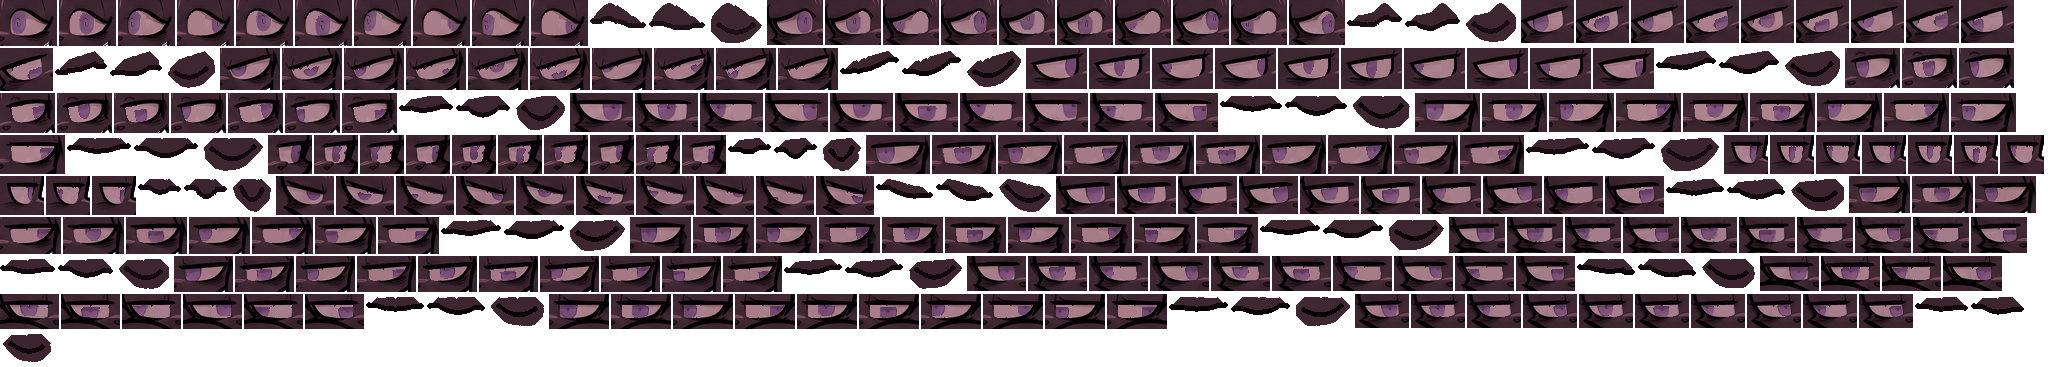
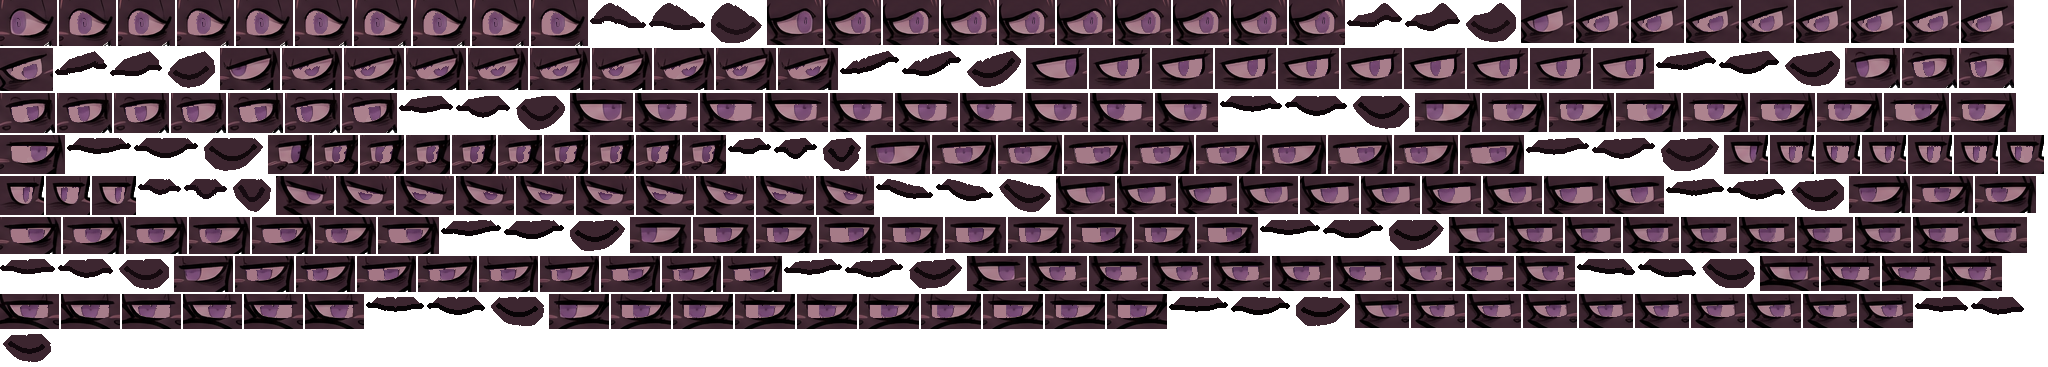
Olhos: íris leva o próprio contorno (sem anel fantasma), curso curto, íris cortada pela pálpebra só mexe pros lados
Claude-Session: https://claude.ai/code/session_01RXb6fzEZ7aw1dyGzSSnjXK

diff --git a/tools/olhos_retratos.py b/tools/olhos_retratos.py
@@ -103,19 +103,31 @@ def remendos(nome, chave, an):
         base = im[y0:y1, x0:x1].copy()
         abc = ab[y0:y1, x0:x1]
         irc = ir[y0:y1, x0:x1]
+        # íris inteira = íris + o contorno escuro em volta dela (o que não é esclera, perto da íris, dentro do olho).
+        # Sem o contorno, ao mexer a íris sobrava um anel fantasma no lugar antigo.
+        cbase = base[..., :3].astype(int)
+        escl_px = np.abs(cbase - o["cor_escl"][None, None, :]).sum(-1) < 70
+        perto = ndimage.binary_dilation(irc, iterations=5) & abc
+        irc = ndimage.binary_fill_holes(irc | (perto & ~escl_px)) & abc
         # olho sem íris (esclera no lugar): apaga com 2 px de folga pra não sobrar fiozinho da borda suavizada
         sem = base.copy()
         apagar = ndimage.binary_dilation(irc, iterations=2) & abc
         sem[apagar, :3] = o["cor_escl"]
-        irc = ndimage.binary_dilation(irc, iterations=1) & abc
         iy, ix = np.nonzero(irc)
         icx, icy = ix.mean(), iy.mean()
         rx = (ix.max() - ix.min() + 1) / 2
         ry = (iy.max() - iy.min() + 1) / 2
         ay, ax = np.nonzero(abc)
         ocx = (ax.min() + ax.max()) / 2
-        livre_x = max(0.0, (ax.max() - ax.min() + 1) / 2 - rx * 0.55)
-        livre_y = max(0.0, ((ay.max() - ay.min() + 1) / 2 - ry * 0.6) * 0.6)
+        # curso curto (55%): no olho grandão a íris ia até a borda e era cortada
+        livre_x = max(0.0, (ax.max() - ax.min() + 1) / 2 - rx * 1.05) * 0.55
+        livre_y = max(0.0, (ay.max() - ay.min() + 1) / 2 - ry * 1.05) * 0.5
+        # íris cortada pela pálpebra (encosta no topo ou no fundo do olho): só mexe pros lados
+        topo_ab = {c: np.nonzero(abc[:, c])[0].min() for c in np.unique(ix)}
+        fundo_ab = {c: np.nonzero(abc[:, c])[0].max() for c in np.unique(ix)}
+        encosta = any(iy[ix == c].min() <= topo_ab[c] + 2 or iy[ix == c].max() >= fundo_ab[c] - 2 for c in np.unique(ix))
+        if encosta:
+            livre_y = 0.0
         move = irc.sum() / max(1, abc.sum()) >= 0.2  # íris quase escondida (choro, sono pesado): não mexe
         pix = base[irc].copy()
         # tira pontinho preto (pupila quase preta) de dentro da íris: vira a cor da própria íris
@@ -132,6 +144,14 @@ def remendos(nome, chave, an):
             else:
                 dx = int(round(ocx + d[0] * livre_x - icx))
                 dy = int(round(d[1] * livre_y))
+                # recua até a íris caber (no máximo 15% dela pra fora do olho)
+                for _ in range(12):
+                    ty, tx = iy + dy, ix + dx
+                    ok = (ty >= 0) & (ty < abc.shape[0]) & (tx >= 0) & (tx < abc.shape[1])
+                    fora = 1 - (abc[ty[ok], tx[ok]].sum() / max(1, len(iy)))
+                    if fora <= 0.15:
+                        break
+                    dx, dy = int(dx * 0.8), int(dy * 0.8)
             if dx == 0 and dy == 0:
                 # íris no lugar original: o desenho original, só sem o pontinho preto
                 img = base.copy()
